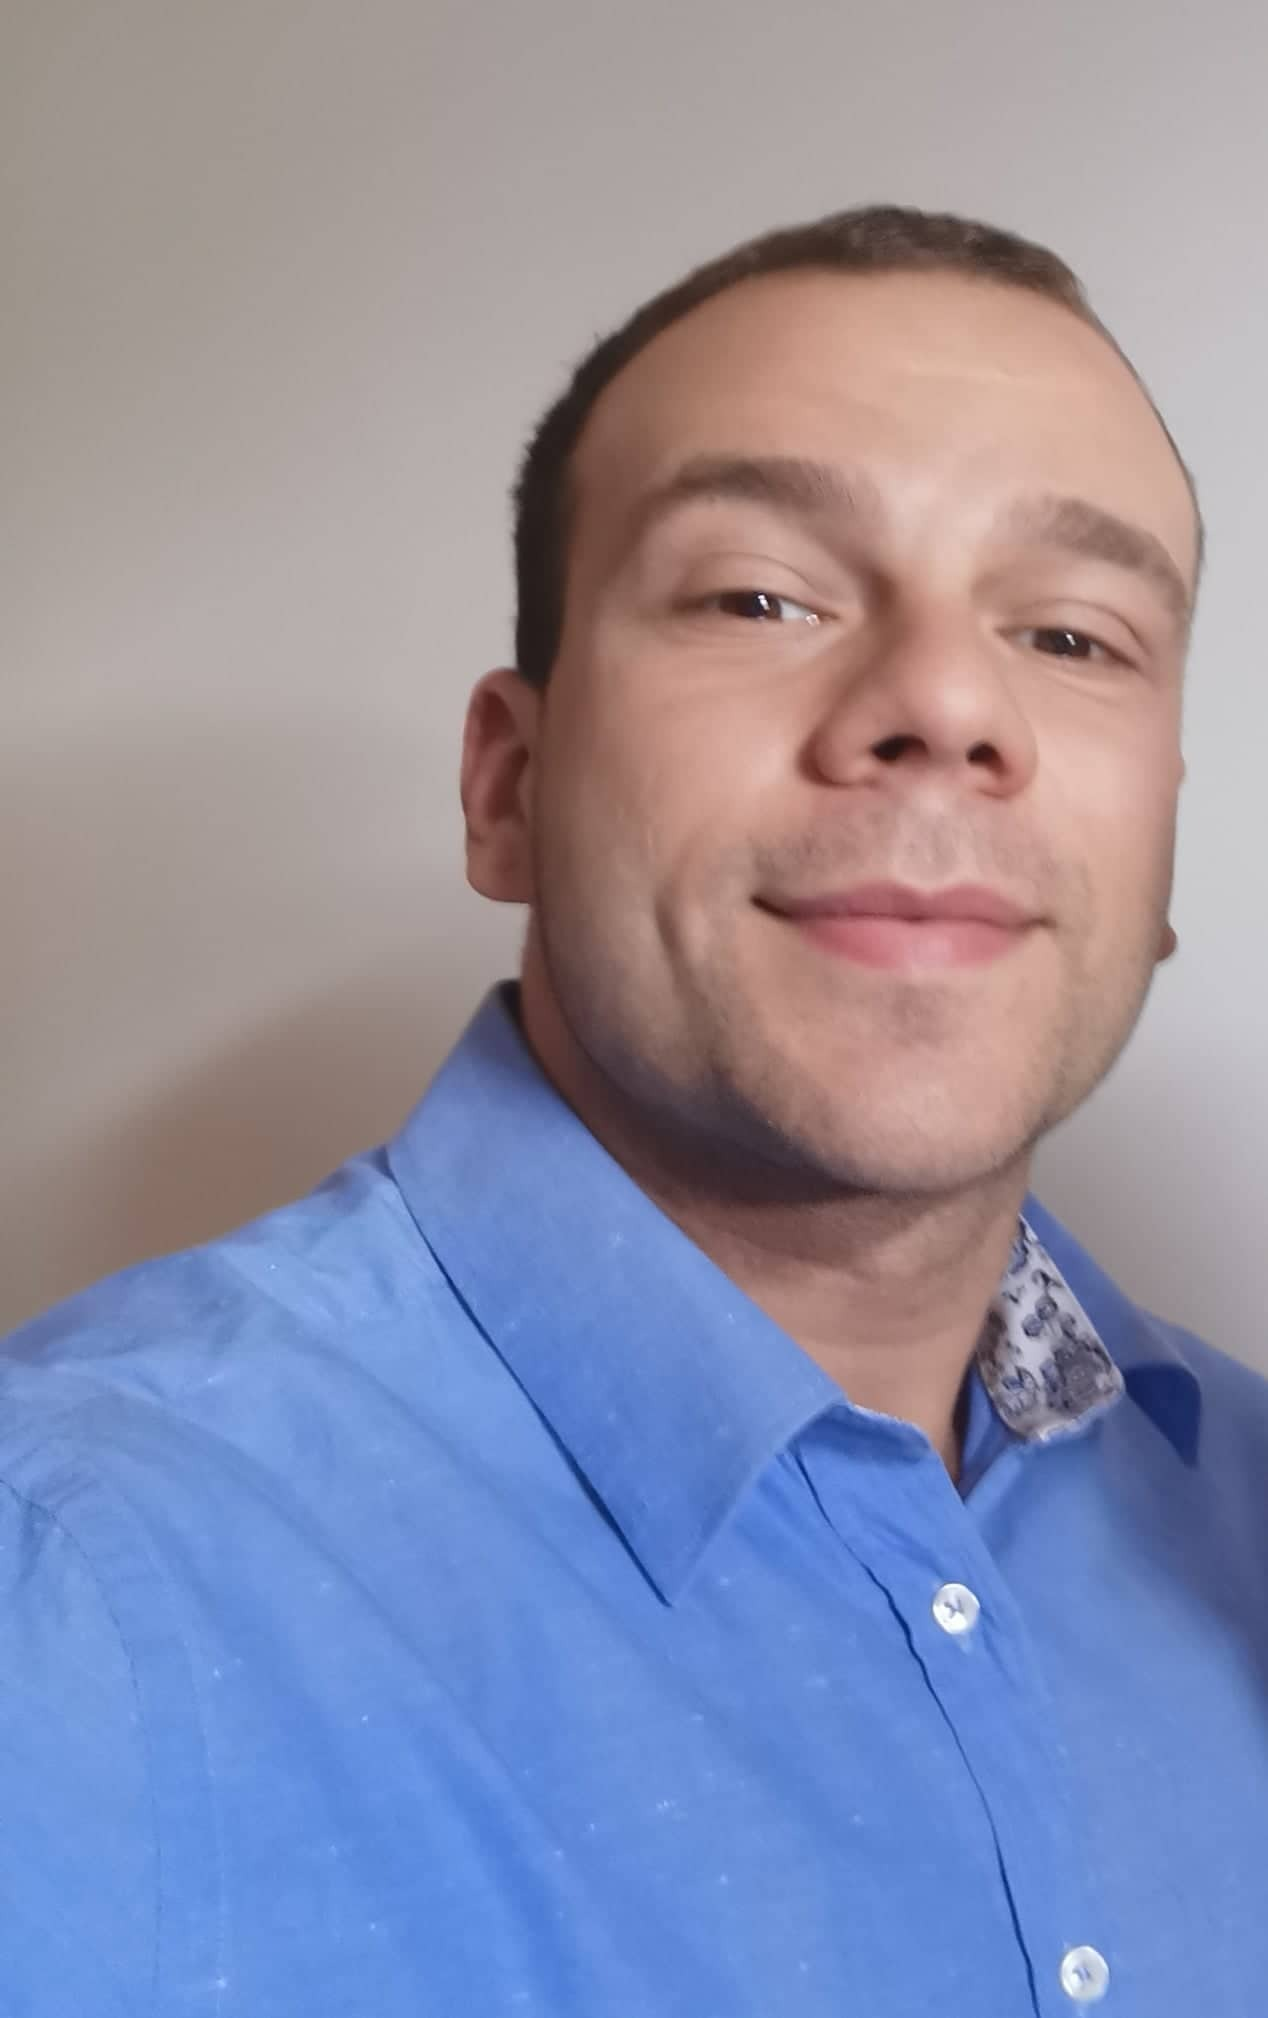
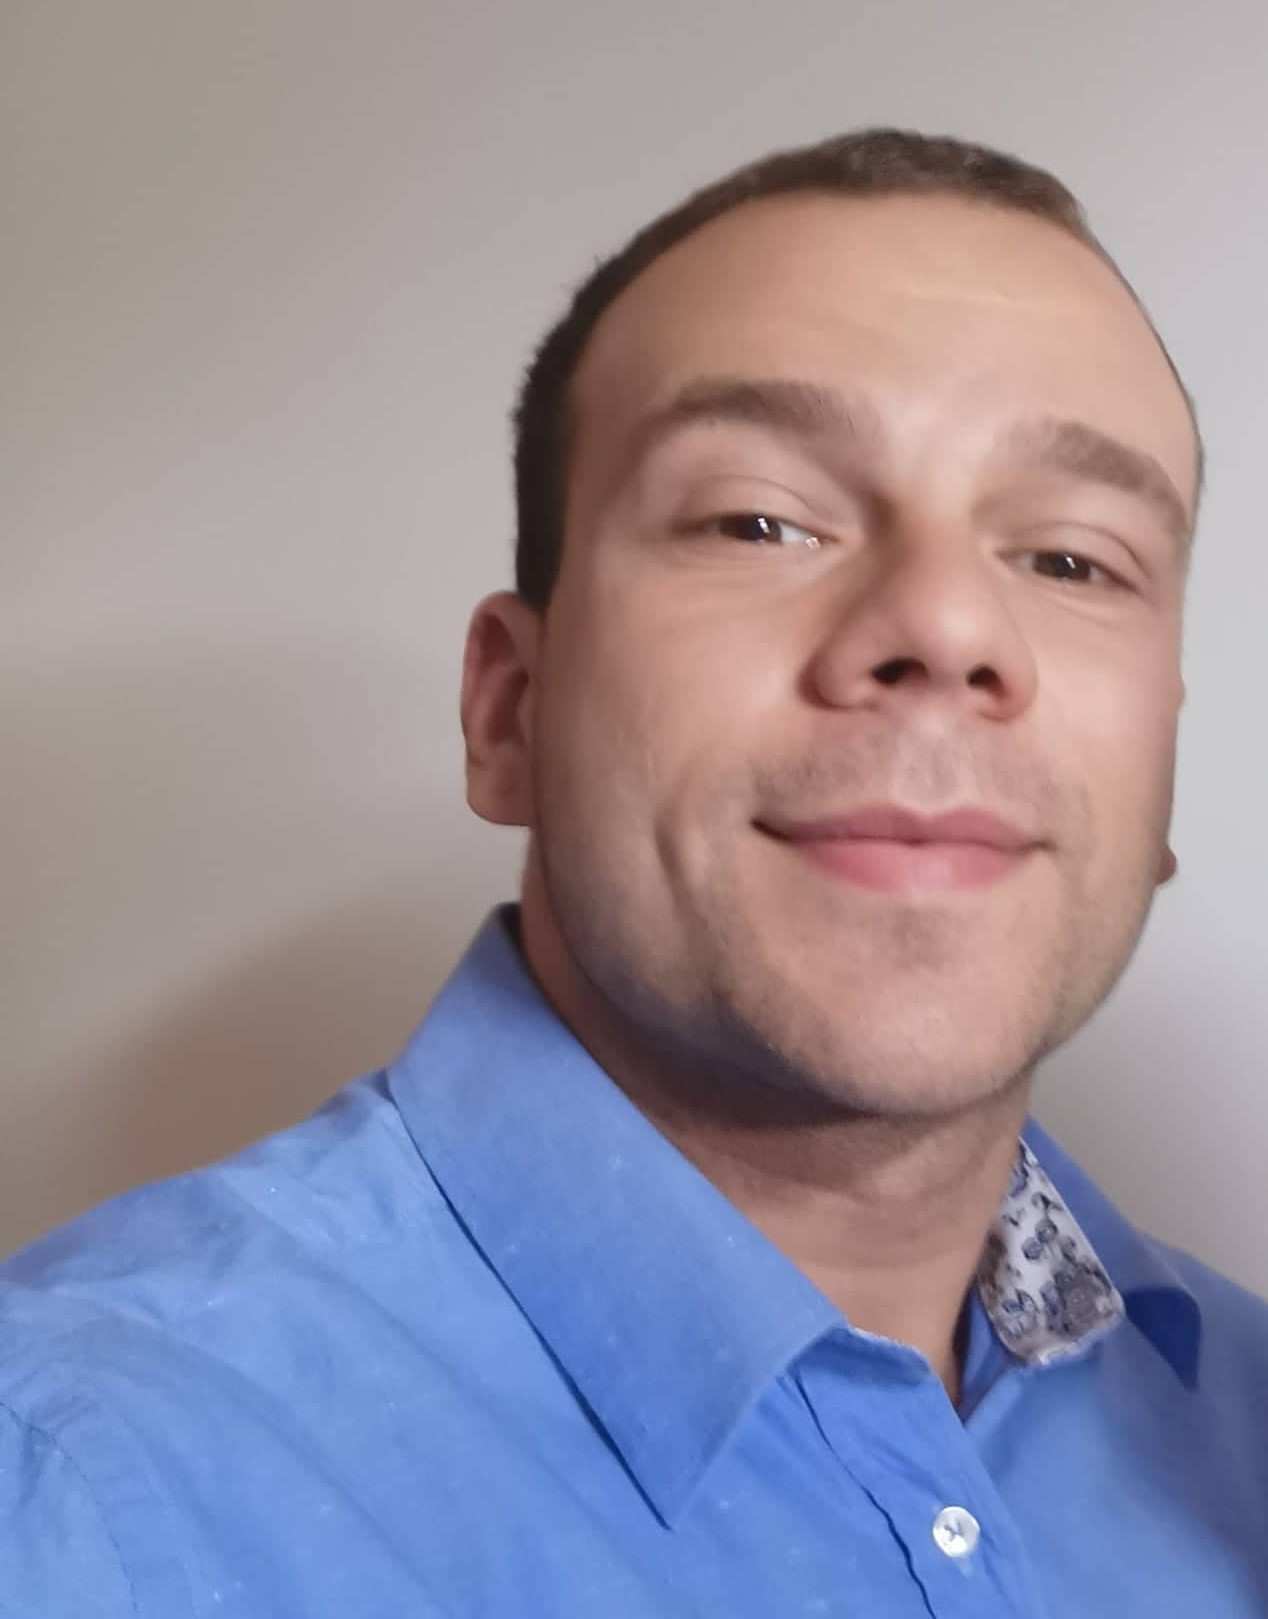
img Maciej

diff --git a/src/main/resources/templates/pages/about-us.html b/src/main/resources/templates/pages/about-us.html
@@ -152,7 +152,7 @@
             </div>
             <div class="col-lg-3 col-sm-6">
                 <div class="card my-3 my-lg-0">
-                    <img class="card-img-top img-fluid w-100" src="/images/team/Michał.jpg" alt="Card image cap">
+                    <img class="card-img-top img-thumbnail w-100" style="height: 300px" src="/images/team/Michał.jpg" alt="Card image cap">
                     <div class="card-body bg-gray text-center">
                         <h5 class="card-title">Michał</h5>
                         <p class="card-text">Founder / CEO</p>
@@ -161,7 +161,7 @@
             </div>
             <div class="col-lg-3 col-sm-6">
                 <div class="card my-3 my-lg-0">
-                    <img class="card-img-top img-fluid w-100" src="/images/team/Maciej.jpg" alt="Card image cap">
+                    <img class="card-img-top img-thumbnail w-100" style="height: 300px" src="/images/team/Maciej.jpg" alt="Card image cap">
                     <div class="card-body bg-gray text-center">
                         <h5 class="card-title">Maciej</h5>
                         <p class="card-text">Founder / CEO</p>
@@ -170,7 +170,7 @@
             </div>
             <div class="col-lg-3 col-sm-6">
                 <div class="card my-3 my-lg-0">
-                    <img class="card-img-top img-fluid w-100" src="/images/team/damian1.jpg" alt="Card image cap">
+                    <img class="card-img-top img-thumbnail w-100" style="height: 300px" src="/images/team/damian1.jpg" alt="Card image cap">
                     <div class="card-body bg-gray text-center">
                         <h5 class="card-title">Damian</h5>
                         <p class="card-text">Founder / CEO</p>
